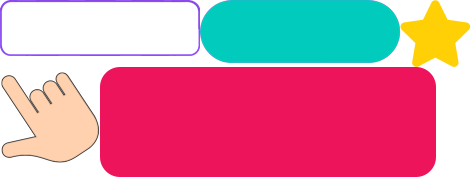
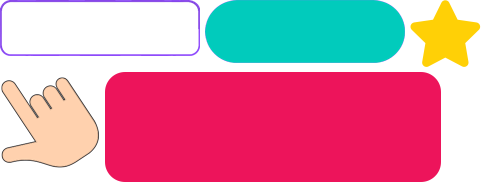
Fix hand artifact. Add idle anim to cta

diff --git a/src/states/Finish.js b/src/states/Finish.js
@@ -27,6 +27,7 @@ export default class extends Phaser.State {
     congrat.alignTo(trophy, Phaser.BOTTOM_CENTER, 0, 20)
 
     let scoreHolder = game.add.image(0, 0, 'ui', 'score_holder.png')
+    scoreHolder.scale.set(1.1)
     scoreHolder.alignTo(congrat, Phaser.BOTTOM_CENTER, 0, 15)
 
     let star = game.add.image(0, 0, 'ui', 'star.png')
@@ -39,7 +40,7 @@ export default class extends Phaser.State {
     })
     scoreKey.alignTo(star, Phaser.RIGHT_CENTER, 8, 3)
 
-    let score = game.add.text(0, 0, '342', {
+    let score = game.add.text(0, 0, '1238', {
       font: 'normal 33px sf_pro_textregular',
       fill: '#ffd106'
     })
@@ -69,11 +70,18 @@ export default class extends Phaser.State {
       .delay(Phaser.Timer.SECOND * 0.5)
       .start()
 
+    let ctaIdle = game.add.tween(ctaBtn.scale)
+      .to({x: 0.7, y: 0.7})
+      .repeat(-1)
+      .yoyo(true)
+
     game.add.tween(ctaBtn.scale)
       .from({x: 0, y: 0})
       .easing(Phaser.Easing.Bounce.Out)
       .delay(Phaser.Timer.SECOND * 0.2)
+      .chain(ctaIdle)
       .start()
+
 
     function ctaAction () {
       if (typeof FbPlayableAd !== 'undefined' && FbPlayableAd.onCTAClick) {
